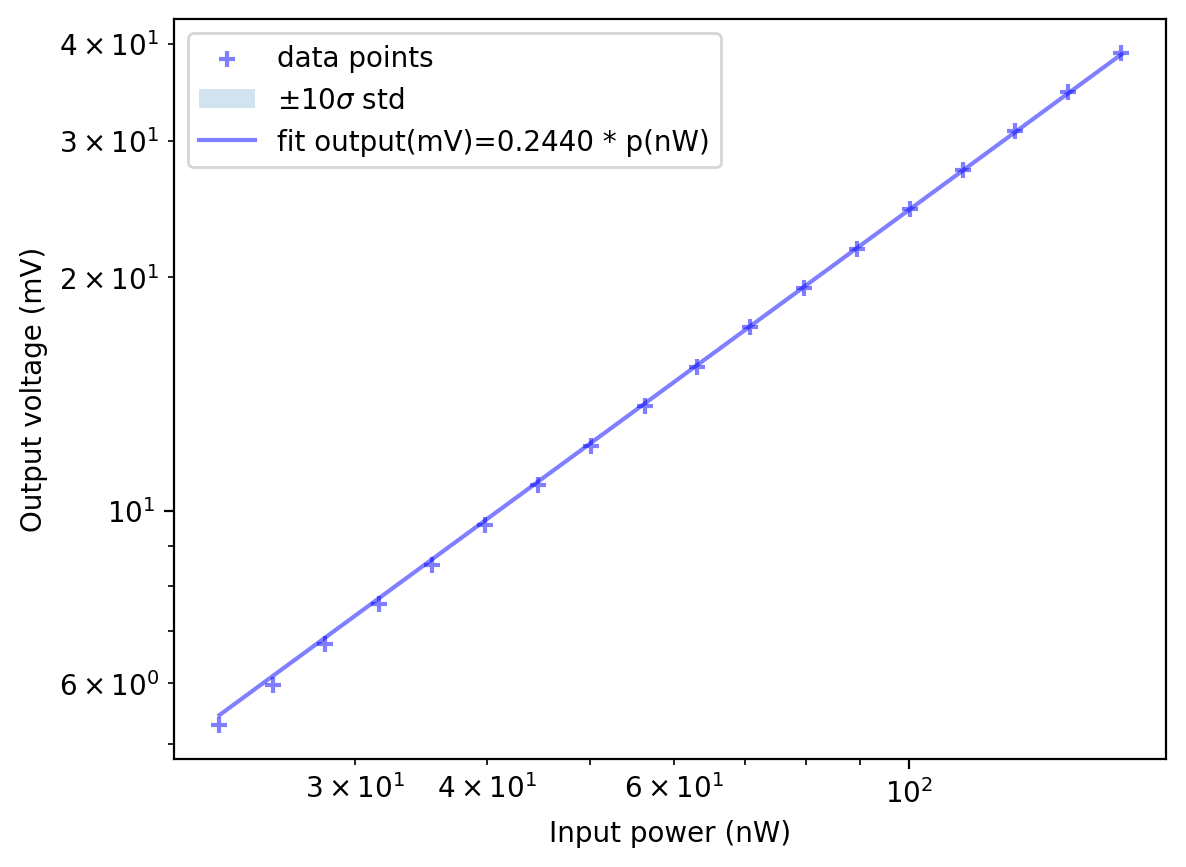
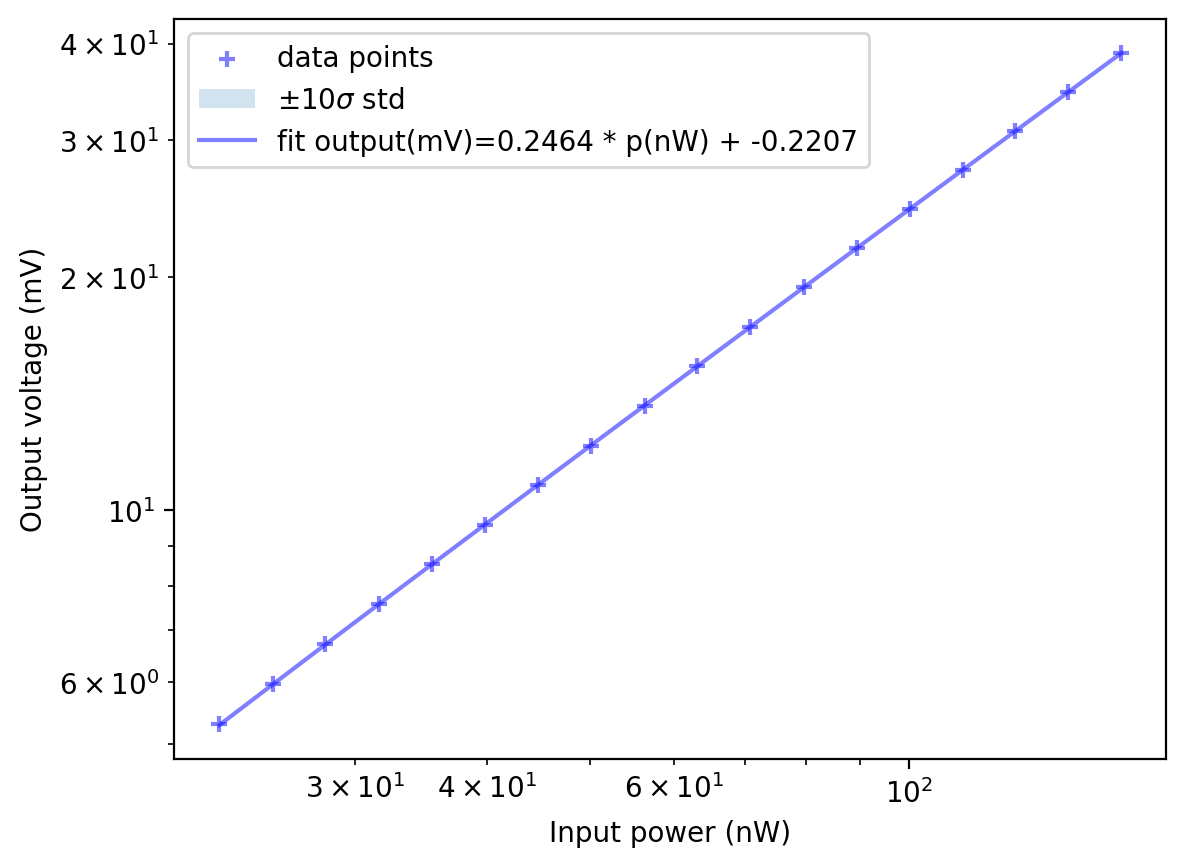
change to ax+b fitting

diff --git a/230908_pd_cal/pd_cal_plot_1_ax+b.py b/230908_pd_cal/pd_cal_plot_1_ax+b.py
@@ -1,0 +1,201 @@
+import sys
+
+sys.path.append("..")
+from lib.process_data.load_csv_data import load_csv_data
+import matplotlib.pyplot as plt
+import numpy as np
+
+att, p, _ = load_csv_data("./data/santec_power_sweep.csv", None, key_x="att", key_y="p")
+p_lookup = {att: p for att, p in zip(att, p)}
+for att in np.arange(9.00, 13.50, 0.5):
+    p_calc = p_lookup[8.5] * (10 ** ((att - 8.5) / 10))
+    p_lookup[att] = p_calc
+p_max = np.max(list(p_lookup.values()))
+
+
+def char_photodiode(
+    ax,
+    dataName,
+    max_power: float,
+    select_func=None,
+    sigma_multiplier=1,
+    fit=True,
+    fittype="ax+b",
+    nW=False,
+):
+    att, v, std_v = load_csv_data(
+        dataName,
+        select_func=select_func,
+        key_x="att",
+        key_y="v",
+    )
+    p_i = np.array([max_power * p_lookup[a] / p_max for a in att])
+    if nW:
+        p_i *= 1000
+    if nW:
+        v *= 1000  # type: ignore
+    ax.scatter(p_i, v, marker="+", alpha=0.5, c="blue", label="data points")
+    ax.fill_between(
+        p_i,
+        v - sigma_multiplier * std_v,  # type: ignore
+        v + sigma_multiplier * std_v,  # type: ignore
+        alpha=0.2,
+        label=rf"$\pm {sigma_multiplier}\sigma$" + " std",
+    )
+    if not nW:
+        ax.set_xlabel("Input power (uW)")
+        ax.set_ylabel("Output voltage (V)")
+    else:
+        ax.set_xlabel("Input power (nW)")
+        ax.set_ylabel("Output voltage (mV)")
+    # fit using y=ax
+
+    def f(x, a):
+        return a * x
+
+    def g(x, a, b):
+        return a * x + b
+
+    if fit:
+        from scipy.optimize import curve_fit
+
+        if fittype == "ax":
+            popt, pcov = curve_fit(f, p_i, v)
+            print(popt)
+
+            if not nW:
+                ax.plot(
+                    p_i,
+                    f(p_i, *popt),
+                    alpha=0.5,
+                    c="blue",
+                    label="fit output(V)={:.4f} * p(uW)".format(popt[0]),
+                )
+            else:
+                ax.plot(
+                    p_i,
+                    f(p_i, *popt),
+                    alpha=0.5,
+                    c="blue",
+                    label="fit output(mV)={:.4f} * p(nW)".format(popt[0]),
+                )
+        elif fittype == "ax+b":
+            popt, pcov = curve_fit(g, p_i, v)
+            print(popt)
+            if not nW:
+                ax.plot(
+                    p_i,
+                    g(p_i, *popt),
+                    alpha=0.5,
+                    c="blue",
+                    label="fit output(V)={:.4f} * p(uW) + {:.6f}".format(
+                        popt[0], popt[1]
+                    ),
+                )
+            else:
+                ax.plot(
+                    p_i,
+                    g(p_i, *popt),
+                    alpha=0.5,
+                    c="blue",
+                    label="fit output(mV)={:.4f} * p(nW) + {:.4f}".format(
+                        popt[0], popt[1]
+                    ),
+                )
+
+
+fig, ax = plt.subplots()
+char_photodiode(
+    ax, "./data1/photodiode_power_sweep_560.csv", max_power=41.52, sigma_multiplier=10
+)
+plt.xscale("log")
+plt.yscale("log")
+plt.legend()
+plt.savefig("./photodiode_560_log.png", dpi=200, bbox_inches="tight")
+
+fig, ax = plt.subplots()
+char_photodiode(
+    ax, "./data1/photodiode_power_sweep_560_1.csv", max_power=40.77, sigma_multiplier=10
+)
+plt.xscale("log")
+plt.yscale("log")
+plt.legend()
+plt.savefig("./photodiode_560_1_log.png", dpi=200, bbox_inches="tight")
+
+fig, ax = plt.subplots()
+char_photodiode(
+    ax,
+    "./data1/photodiode_power_sweep_560_1.csv",
+    max_power=40.77,
+    sigma_multiplier=10,
+    select_func=lambda x, y: x < -6,
+    nW=True,
+)
+plt.xscale("log")
+plt.yscale("log")
+plt.legend()
+plt.savefig("./photodiode_560_1_log_mag.png", dpi=200, bbox_inches="tight")
+
+fig, ax = plt.subplots()
+char_photodiode(
+    ax,
+    "./data1/photodiode_power_sweep_560_1.csv",
+    max_power=40.77,
+    sigma_multiplier=3,
+    fit=False,
+)
+plt.legend()
+plt.savefig("./photodiode_560_1.png", dpi=200, bbox_inches="tight")
+
+fig, ax = plt.subplots()
+char_photodiode(
+    ax,
+    "./data1/photodiode_power_sweep_20dB_560.csv",
+    max_power=14.06,
+    sigma_multiplier=10,
+)
+plt.xscale("log")
+plt.yscale("log")
+plt.legend()
+plt.savefig("./photodiode_560_20dB_log.png", dpi=200, bbox_inches="tight")
+
+fig, ax = plt.subplots()
+char_photodiode(
+    ax,
+    "./data1/photodiode_power_sweep_20dB_560_1.csv",
+    max_power=14.15,
+    sigma_multiplier=10,
+)
+plt.xscale("log")
+plt.yscale("log")
+plt.legend()
+plt.savefig("./photodiode_560_20dB_1_log.png", dpi=200, bbox_inches="tight")
+
+fig, ax = plt.subplots()
+char_photodiode(
+    ax,
+    "./data1/photodiode_power_sweep_20dB_560_1.csv",
+    max_power=14.15,
+    sigma_multiplier=10,
+    select_func=lambda x, y: x < -6,
+    nW=True,
+)
+plt.xscale("log")
+plt.yscale("log")
+plt.legend()
+plt.savefig("./photodiode_560_20dB_1_log_mag.png", dpi=200, bbox_inches="tight")
+
+fig, ax = plt.subplots()
+char_photodiode(
+    ax,
+    "./data1/photodiode_power_sweep_330.csv",
+    max_power=49.84,
+    sigma_multiplier=3,
+    fit=False,
+)
+# plt.xscale("log")
+# plt.yscale("log")
+plt.legend()
+plt.savefig("./photodiode_330_saturated.png", dpi=200, bbox_inches="tight")
+
+plt.show()
